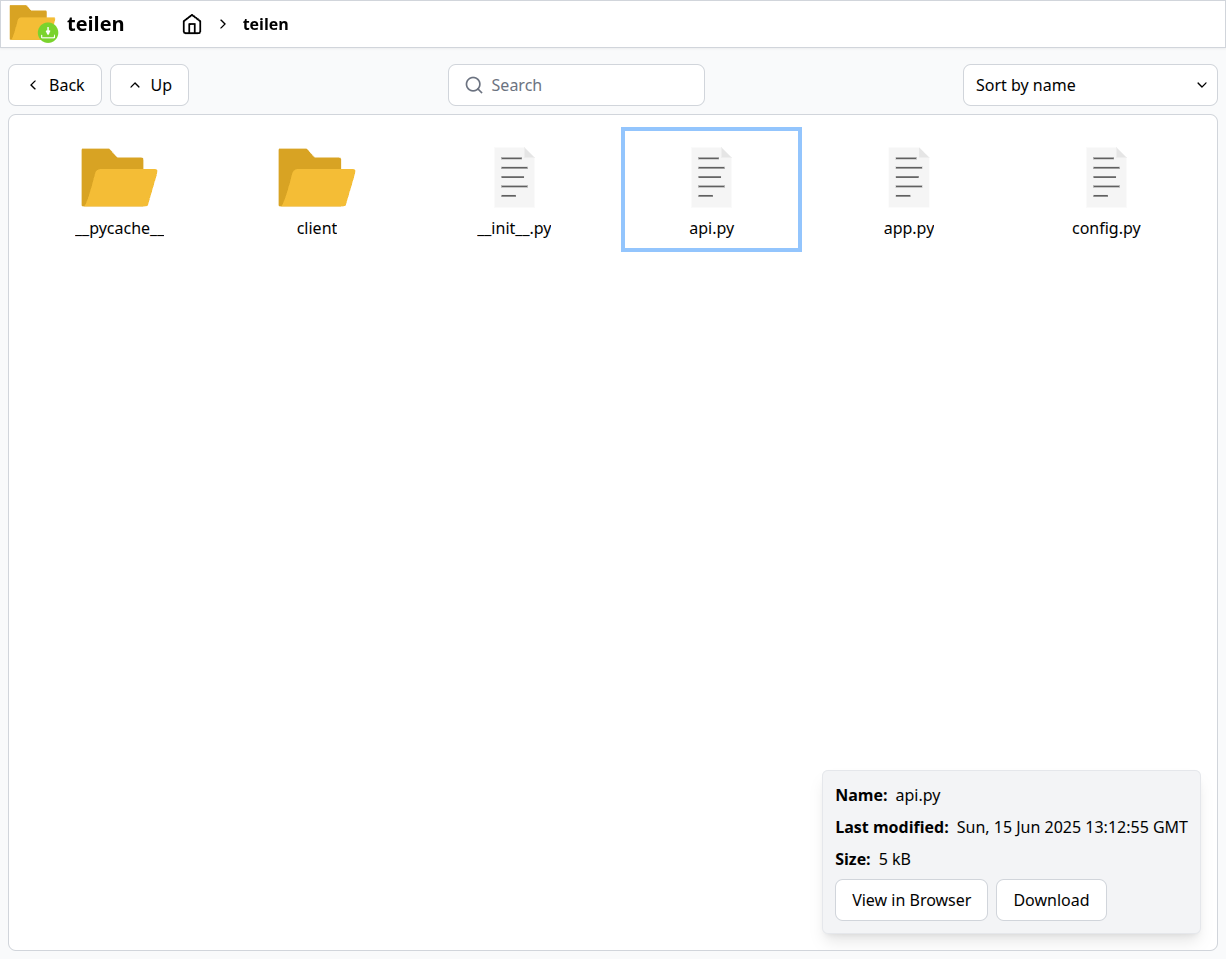
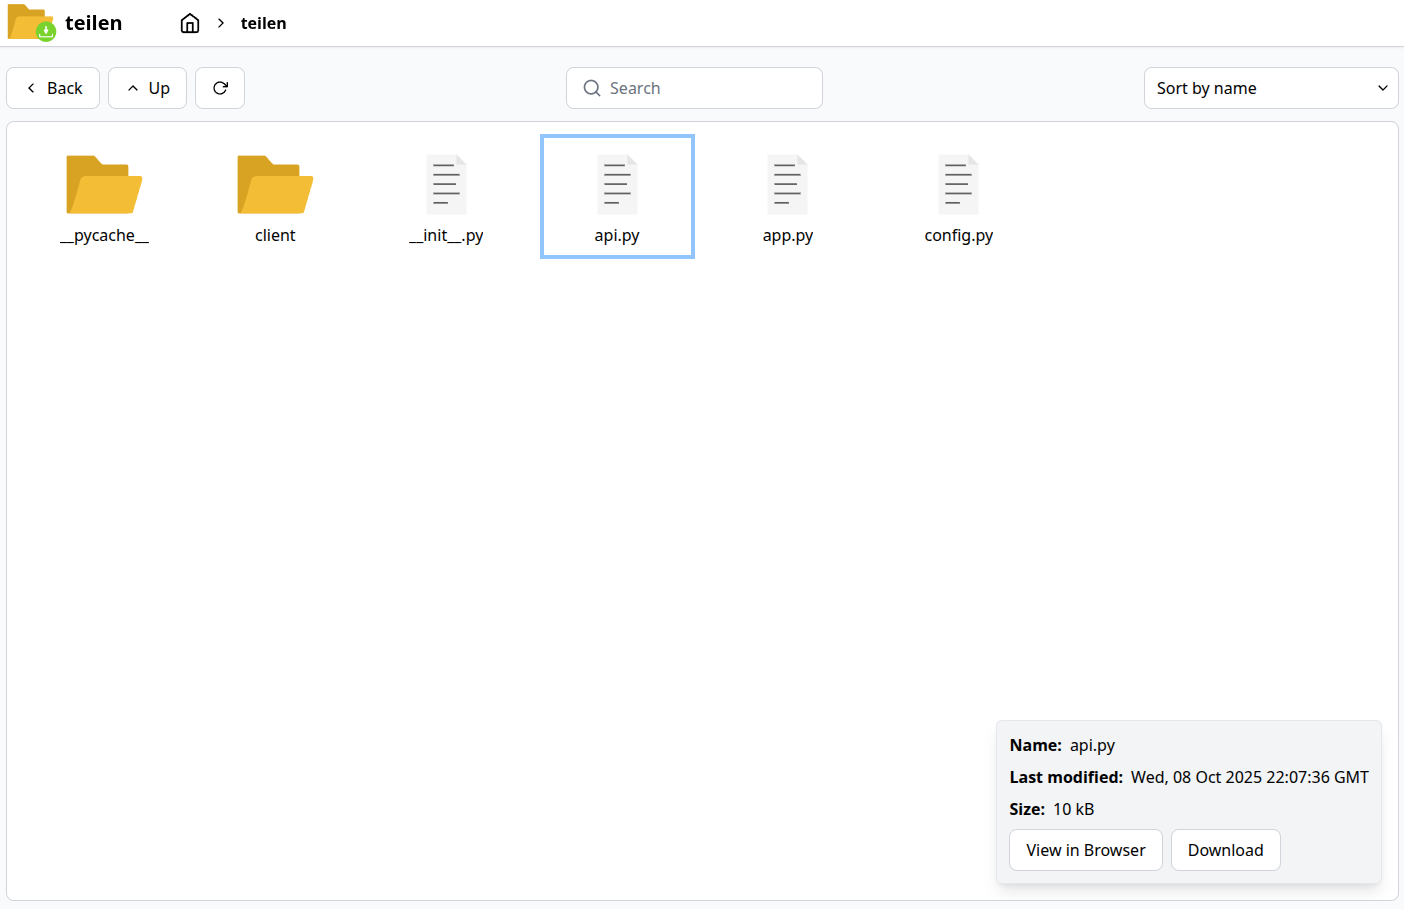
[docs] update gallery

diff --git a/gallery/gallery.md b/gallery/gallery.md
@@ -1,3 +1,5 @@
 # teilen - Gallery
 
 ![example01](./example01.png)
+![example02](./example02.png)
+![example03](./example03.png)
